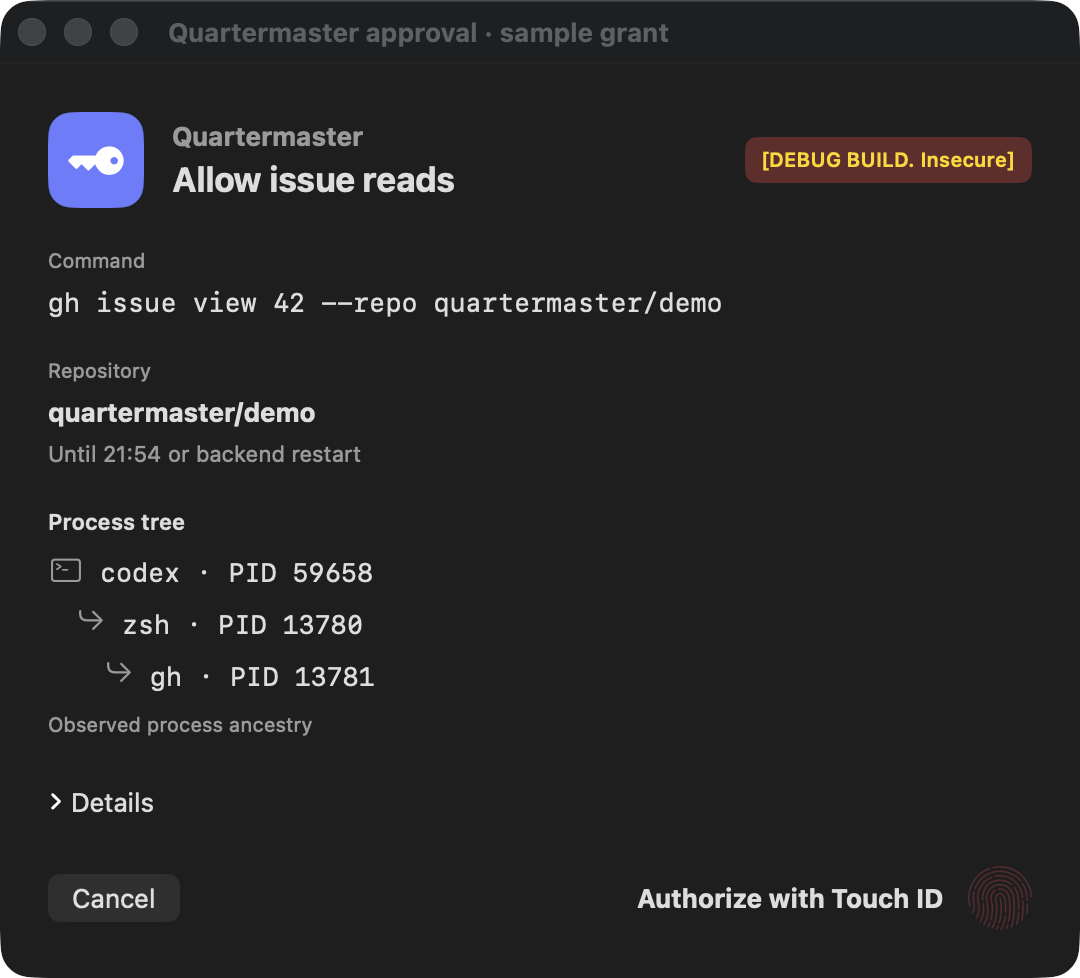
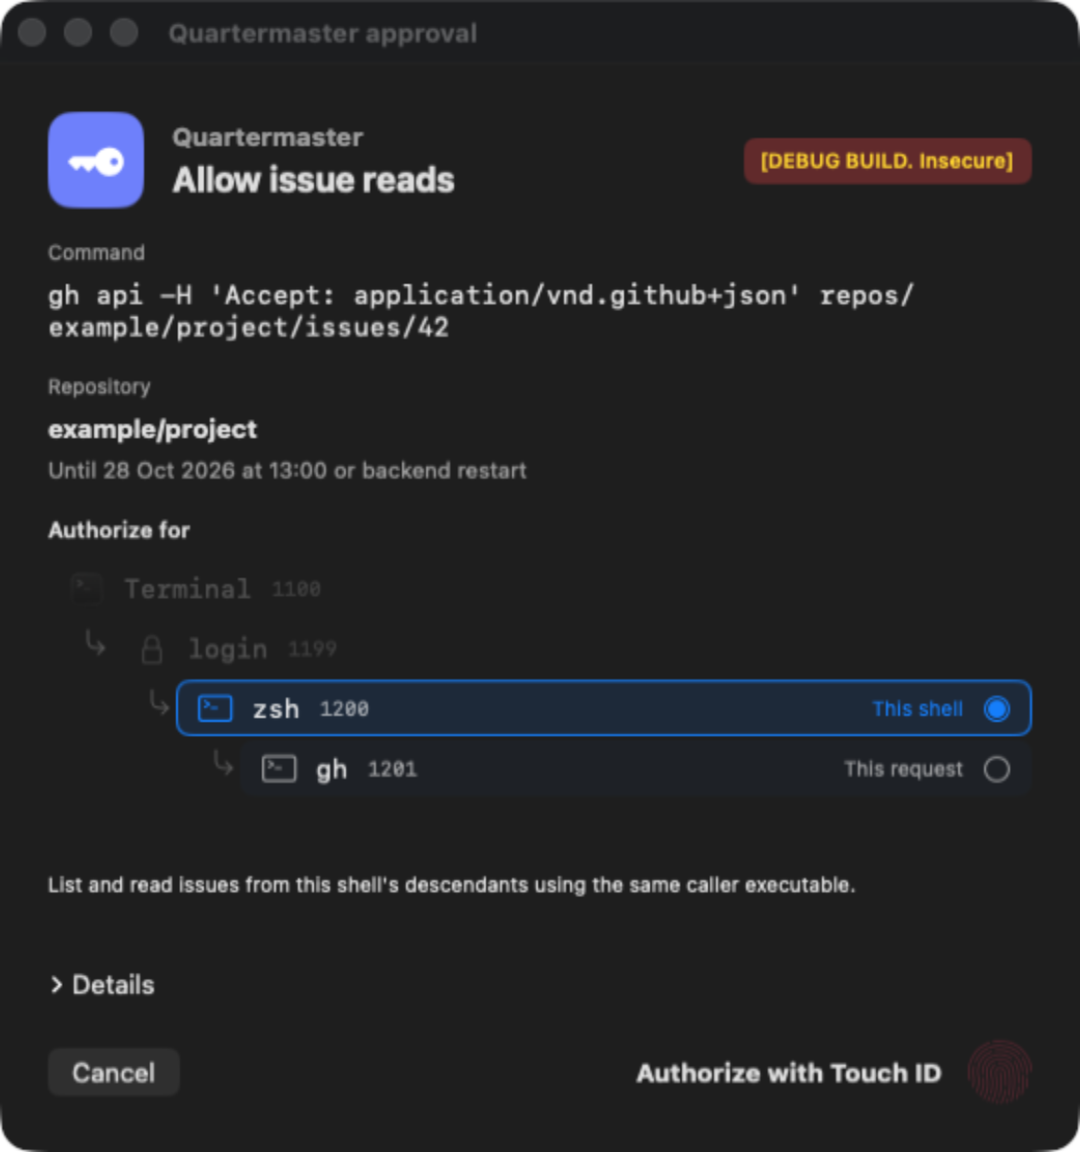
Updated (and make reproducible) screenshots

diff --git a/macos/Tests/DocumentationScreenshots.swift b/macos/Tests/DocumentationScreenshots.swift
@@ -1,0 +1,221 @@
+import AppKit
+import Foundation
+import LocalAuthentication
+import ScreenCaptureKit
+import SwiftUI
+
+@testable import Quartermaster
+@testable import QuartermasterApprovalUI
+@testable import QuartermasterSecurity
+
+private enum CaptureFailure: Error {
+    case usage, rendering, unexpectedOperation, connectionTimeout, authenticationNotPending
+}
+
+@MainActor private final class InertUnlock: VaultUnlockBackend {
+    let reviewCreated = MonotonicTimestamp.now
+    func unlock(authenticated: MonotonicTimestamp, context: LAContext) async throws {
+        throw CaptureFailure.unexpectedOperation
+    }
+    func cancel() {}
+}
+
+private final class DocumentationClient: BrokerClient, Sendable {
+    let disconnected = false
+    func cancel() {}
+
+    @MainActor func call(_ command: BrokerCommand, context: LAContext?) async throws -> BrokerReply {
+        switch command {
+        case .hello: return .hello(profile: "development")
+        case .settingsRegister, .settingsStatus: return .settingsStatus(try Self.snapshot())
+        case .settingsCancel: return .canceled
+        case .vaultStatus:
+            let decoder = JSONDecoder()
+            decoder.dateDecodingStrategy = .secondsSince1970
+            return .vaultStatus(
+                try decoder.decode(
+                    BrokerVaultStatus.self,
+                    from: JSONSerialization.data(withJSONObject: [
+                        "state": "locked", "binding": Self.binding, "lastSync": 1_793_188_800,
+                    ])))
+        default: throw CaptureFailure.unexpectedOperation
+        }
+    }
+
+    private static let binding = [
+        "server": "https://vault.example.invalid", "email": "demo@example.invalid",
+        "account_id": "11111111-1111-4111-8111-111111111111",
+        "item_id": "22222222-2222-4222-8222-222222222222", "field": "LoginPassword", "role": "github-write",
+    ]
+
+    private static func snapshot() throws -> SettingsSnapshot {
+        try JSONDecoder().decode(
+            SettingsSnapshot.self,
+            from: JSONSerialization.data(withJSONObject: [
+                "state": "configured", "revision": 5,
+                "session": Data(repeating: 1, count: 16).base64EncodedString(),
+                "settings": ["github": NSNull(), "mutations": "requireApproval"],
+                "provider": [
+                    "slot": String(repeating: "a", count: 32), "scope": String(repeating: "b", count: 32),
+                    "deviceKey": Array(repeating: 7, count: 32), "binding": binding,
+                ],
+                "migration": NSNull(),
+            ]))
+    }
+}
+
+@MainActor private func approval() throws -> ApprovalPresentation {
+    let path = "/repos/example/project/issues/42"
+    let root: [String: Any] = ["id": "1200:0000000000000001:00000001", "pid": 1200, "executable": "/bin/zsh"]
+    let request: [String: Any] = [
+        "repository": "example/project", "repositoryId": 123, "issue": 42,
+        "method": "GET", "path": path, "body": "", "origin": "https://api.github.com",
+        "processChain": ["Terminal", "login", "zsh", "gh"], "readRoots": [root],
+        "peer": [
+            "pid": 1201, "executable": "/usr/local/bin/gh", "signingIdentifier": "gh",
+            "cdHash": String(repeating: "1", count: 40), "adHoc": true, "ancestryComplete": true,
+            "commandLine": "gh api -H 'Accept: application/vnd.github+json' repos/example/project/issues/42",
+            "processes": [
+                [
+                    "pid": 1100, "name": "Terminal",
+                    "executable": "/System/Applications/Utilities/Terminal.app/Contents/MacOS/Terminal",
+                    "limited": false,
+                ],
+                ["pid": 1199, "name": "login", "executable": "/usr/bin/login", "limited": true],
+                ["pid": 1200, "name": "zsh", "executable": "/bin/zsh", "limited": false],
+                ["pid": 1201, "name": "gh", "executable": "/usr/local/bin/gh", "limited": false],
+            ],
+        ],
+        "application": [
+            "version": "quartermaster.github-request.v1", "complete": true, "effects": ["Read issue"],
+            "requestedRepository": "example/project",
+            "originalDigest": Data(repeating: 1, count: 32).base64EncodedString(),
+            "request": Data(
+                "GET \(path) HTTP/1.1\r\nHost: api.github.com\r\nAccept: application/vnd.github+json\r\nX-GitHub-Api-Version: 2022-11-28\r\n\r\n"
+                    .utf8
+            ).base64EncodedString(),
+        ],
+        "authorization": [
+            "purpose": "quartermaster.read-grant.v2",
+            "grant": [
+                "id": String(repeating: "a", count: 32), "uid": 501, "codeHash": String(repeating: "1", count: 40),
+                "root": root, "effects": ["version": 1, "effects": ["listIssues", "readIssue"]],
+                "repository": "example/project", "role": "github-write", "expiresUnix": 1_793_192_400,
+            ],
+        ],
+    ]
+    let bytes = try JSONSerialization.data(withJSONObject: request)
+    let provider = try JSONDecoder().decode(
+        ApprovalProviderIdentity.self,
+        from: Data(
+            #"{"server":"https://vault.example.invalid","account":"sample","email":"demo@example.invalid","item":"sample","field":"LoginPassword","role":"github-write","enrollment":"sample","generation":1}"#
+                .utf8))
+    return ApprovalPresentation(
+        request: try JSONDecoder().decode(DialogRequest.self, from: bytes), provider: provider,
+        readGrant: try ReadGrantReview.parse(
+            request: bytes, role: "github-write", uid: 501, now: Date(timeIntervalSince1970: 1_793_188_800)),
+        apiRequest: try APIRequestReview.parse(request: bytes), readScope: try ReadScopeReview.parse(request: bytes))
+}
+
+@MainActor private func render(
+    _ view: some View, size: NSSize?, title: String, to output: URL,
+    settling: Duration = .milliseconds(500), validate: () throws -> Void = {}
+) async throws {
+    let host = NSHostingView(rootView: view.environment(\.locale, Locale(identifier: "en_GB")))
+    let dimensions = size ?? host.fittingSize
+    host.setFrameSize(dimensions)
+    let window = NSWindow(
+        contentRect: NSRect(origin: .zero, size: dimensions), styleMask: [.titled, .closable], backing: .buffered,
+        defer: false)
+    window.isReleasedWhenClosed = false
+    window.title = title
+    window.contentView = host
+    defer { window.close() }
+    window.center()
+    window.makeKeyAndOrderFront(nil)
+    NSApplication.shared.activate(ignoringOtherApps: true)
+    try await Task.sleep(for: settling)
+    host.layoutSubtreeIfNeeded()
+    let content = try await SCShareableContent.currentProcess
+    guard let captured = content.windows.first(where: { $0.windowID == CGWindowID(window.windowNumber) }) else {
+        throw CaptureFailure.rendering
+    }
+    let configuration = SCStreamConfiguration()
+    configuration.width = Int(window.frame.width * 2)
+    configuration.height = Int(window.frame.height * 2)
+    configuration.ignoreShadowsSingleWindow = true
+    configuration.scalesToFit = true
+    configuration.showsCursor = false
+    configuration.captureResolution = .best
+    let image = try await SCScreenshotManager.captureImage(
+        contentFilter: SCContentFilter(desktopIndependentWindow: captured), configuration: configuration)
+    let bitmap = NSBitmapImageRep(cgImage: image)
+    guard let data = bitmap.representation(using: .png, properties: [:]) else { throw CaptureFailure.rendering }
+    try validate()
+    try data.write(to: output, options: .atomic)
+    print("\(output.lastPathComponent): \(bitmap.pixelsWide)×\(bitmap.pixelsHigh)")
+}
+
+@main private enum DocumentationScreenshots {
+    @MainActor static func main() async {
+        do { try await capture() } catch {
+            FileHandle.standardError.write(Data("Screenshot capture failed: \(error)\n".utf8))
+            exit(1)
+        }
+    }
+
+    @MainActor private static func capture() async throws {
+        guard CommandLine.arguments.count == 3,
+            ["--settings-only", "--authentication-ui"].contains(CommandLine.arguments[2])
+        else {
+            print("Usage: DocumentationScreenshots OUTPUT (--settings-only | --authentication-ui)")
+            print("--authentication-ui briefly shows and cancels a real Touch ID prompt. Do not touch the reader.")
+            throw CaptureFailure.usage
+        }
+        let output = URL(fileURLWithPath: CommandLine.arguments[1], isDirectory: true)
+        try FileManager.default.createDirectory(at: output, withIntermediateDirectories: true)
+        UserDefaults.standard.setVolatileDomain(
+            ["AppleLocale": "en_GB", "AppleLanguages": ["en-GB"], "AppleAccentColor": 4],
+            forName: UserDefaults.argumentDomain)
+        NSTimeZone.default = TimeZone(secondsFromGMT: 0)!
+        let app = NSApplication.shared
+        app.setActivationPolicy(.regular)
+        app.appearance = NSAppearance(named: .darkAqua)
+        if CommandLine.arguments[2] == "--authentication-ui" {
+            let controller = ApprovalController(
+                unlock: InertUnlock(), reason: "Capture Quartermaster documentation; do not authenticate")
+            let cancellation = Task {
+                try await Task.sleep(for: .seconds(8))
+                controller.cancel()
+            }
+            defer {
+                controller.cancel()
+                cancellation.cancel()
+            }
+            try await render(
+                ApprovalDialogView(
+                    presentation: try approval(), controller: controller, close: {}, selectRoot: { _ in }),
+                size: nil, title: "Quartermaster approval", to: output.appendingPathComponent("approval-dialog.png"),
+                settling: .seconds(2),
+                validate: {
+                    guard controller.phase == .authenticating else { throw CaptureFailure.authenticationNotPending }
+                })
+        }
+        let application = BrokerApplication(
+            setActivationPolicy: { _ in }, openConnection: { DocumentationClient() },
+            loadApprovalKey: { Data(repeating: 1, count: 65) },
+            acquirePresentation: { throw CaptureFailure.unexpectedOperation })
+        application.reconnect()
+        for _ in 0..<100 {
+            if application.vaultStatus != nil { break }
+            try await Task.sleep(for: .milliseconds(10))
+        }
+        guard application.vaultStatus != nil, application.preferences.available else {
+            throw CaptureFailure.connectionTimeout
+        }
+        try await render(
+            PreferencesView(editor: application.preferences, application: application),
+            size: NSSize(width: 920, height: 700), title: "Vault",
+            to: output.appendingPathComponent("settings-vault.png"))
+    }
+}

diff --git a/docs/development.md b/docs/development.md
@@ -91,12 +91,30 @@ open target/macos/signed/Quartermaster.app
 `just run` builds, signs and starts the backend. Opening the app shows the
 Quartermaster key menu. Starting it creates no read grant and requests no fingerprint;
 enrolment and credential use can require authentication. This is a development
-build, whose protected settings flow still needs attended signing and hardware qualification.
+build; attended checks of selected settings and approval flows do not qualify
+every lifecycle transition or a production release.
 
 Quit the UI through its menu, then use `just stop` to stop the backend. It is
 started for the logged-in user; login startup is not configured.
 
 To use a vault and make real requests, follow [GitHub setup](github.md).
+
+## Documentation screenshots
+
+From a logged-in Mac with Touch ID available, update the images in `docs/images`:
+
+```sh
+just screenshots
+```
+
+Windows briefly appear so capture includes Apple's real fingerprint UI.
+**Do not touch the reader**; authentication cancels automatically within eight
+seconds. Sample backends cannot unlock a vault or approve a request.
+Use `--settings-only` to skip authentication and capture just Vault settings.
+
+Fixtures in `macos/Tests/DocumentationScreenshots.swift` fix sample data,
+appearance, locale and dimensions; native rendering can vary by macOS version.
+If Nix overrides Xcode, prefix the command with `env -u DEVELOPER_DIR -u SDKROOT`.
 
 ## Integration tests
 
